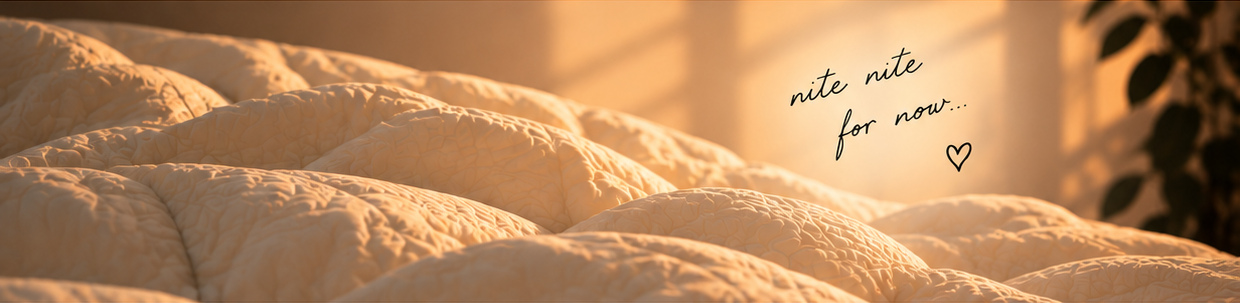
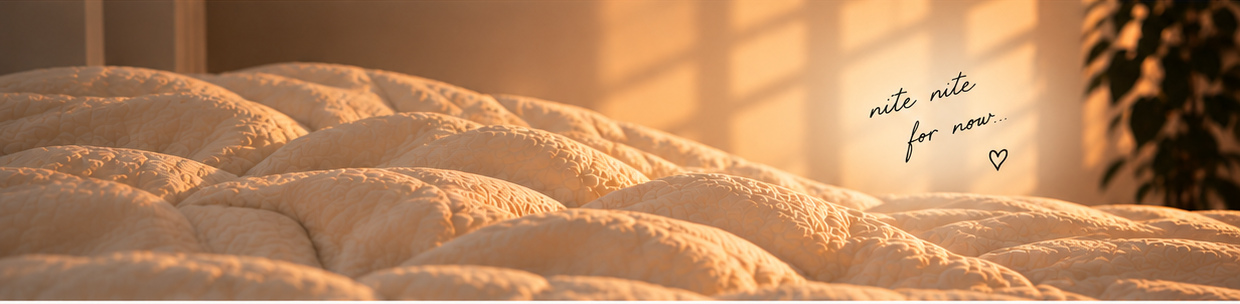
Add files via upload

diff --git a/styles.css b/styles.css
@@ -98,3 +98,26 @@ a{color:inherit;text-decoration:none}
   .site-footer{grid-template-columns:1fr;gap:7px;text-align:center;padding:16px}
   .site-footer span:nth-child(2),.site-footer span:last-child{text-align:center}
 }
+
+/* Final footer-photo fix: no zoom/cropping; preserve the complete approved image and writing. */
+.bed{
+  height:auto !important;
+  overflow:visible !important;
+  line-height:0;
+}
+.bed > img{
+  display:block !important;
+  width:100% !important;
+  height:auto !important;
+  object-fit:contain !important;
+  object-position:center center !important;
+}
+
+/* Launch lock: small heart beside the signature. */
+.sig-heart{
+  font-family:Georgia,serif;
+  font-size:.48em;
+  vertical-align:.18em;
+  margin-left:.08em;
+  font-weight:400;
+}

diff --git a/index.html b/index.html
@@ -29,7 +29,7 @@
     <p>It can be about anything and everything… or nothing at all.</p>
     <p>But I know we’ll discover it together.</p>
     <p>So, bear with me.</p>
-    <div class="sign"><em>xo,</em><span>— M. ♥</span></div>
+    <div class="sign"><em>xo,</em><span>— M. <small class="sig-heart">♡</small></span></div>
   </div>
   <figure class="hero-photo"><img src="hero-cozy.jpg" alt="Cozy bedside scene with mug, candle, flowers and a full moon"></figure>
 </section>
